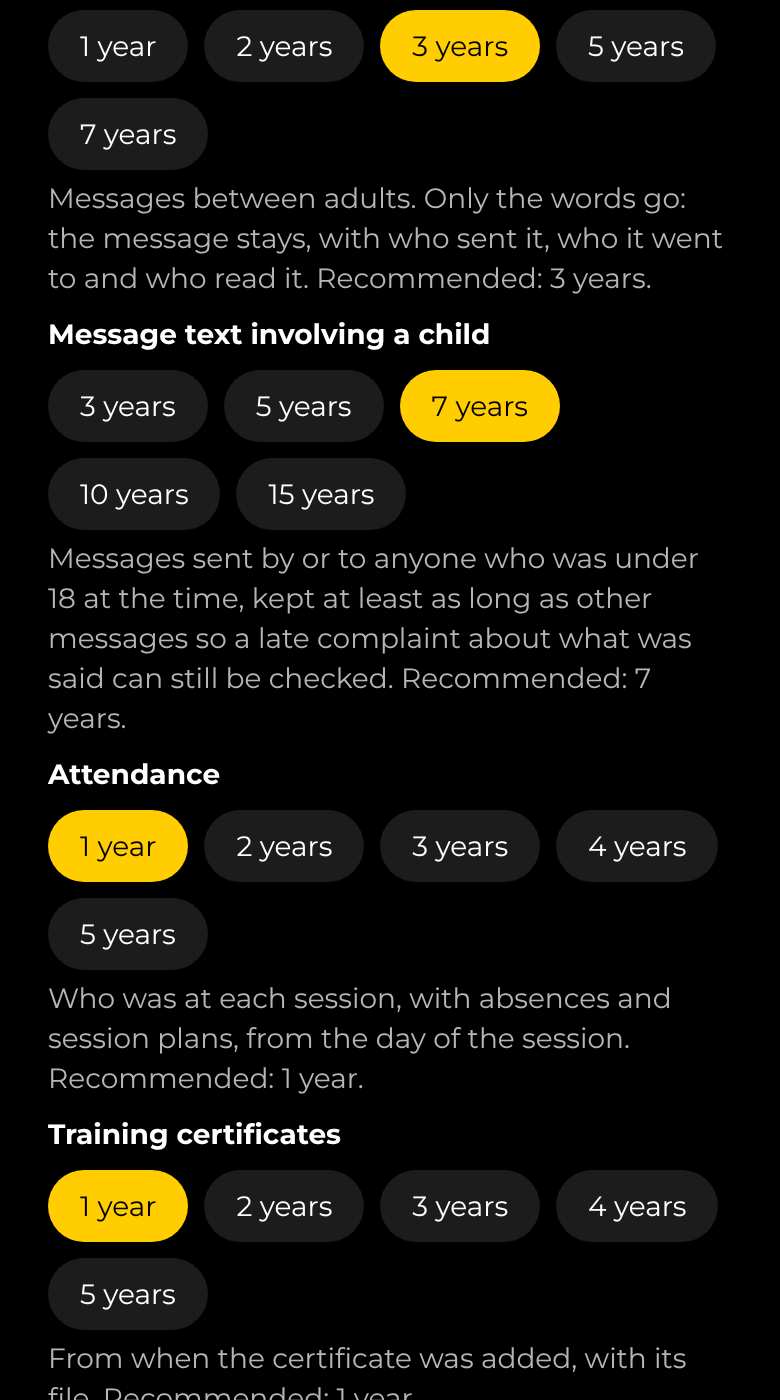
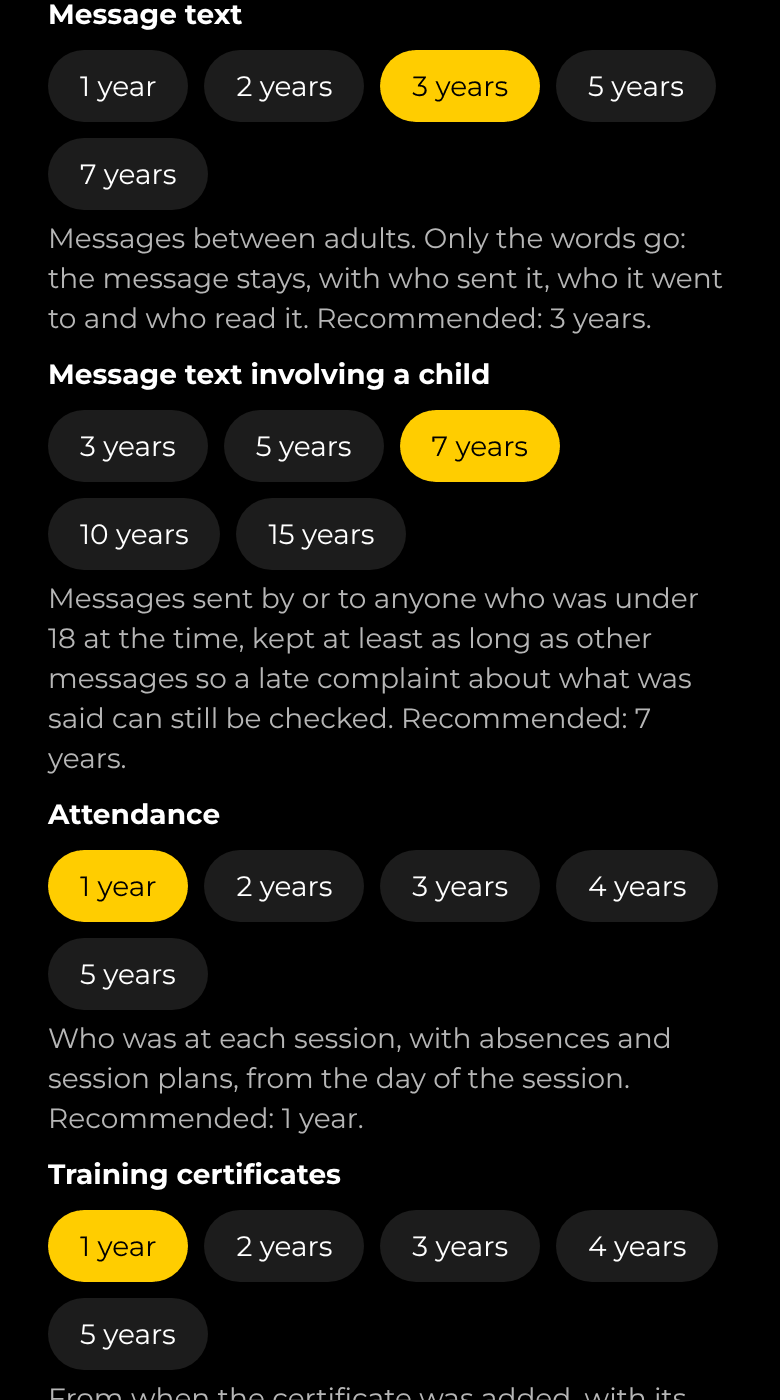
Add keep periods for surveys under Keeping records
Three periods, counted from when a survey closes: surveys from the
committee and admins (default 3 years), squad and team surveys shared
with admins or the committee (default 2 years), and polls kept in the
team (default 6 months). The nightly clean-up removes older surveys,
with their questions and answers, only once "Remove old records" is on.

Claude-Session: https://claude.ai/code/session_011mgcLG2v6Sjj6gzeqmDwPH

Changed region(s): [[0.0615, 0.0, 0.9231, 1.0], [0.5538, 0.9521, 0.7385, 1.0], [0.7692, 0.9521, 0.8615, 1.0]]

diff --git a/src/components/record-retention.tsx b/src/components/record-retention.tsx
@@ -22,7 +22,13 @@ type Retention = {
   child_messages_months: number;
   /** Days after clearance an injury's files are kept. */
   injury_documents_days: number;
+  /** Months after closing a survey is kept, by who it's from and who sees it. */
+  surveys_months: number;
+  shared_surveys_months: number;
+  team_polls_months: number;
 };
+
+type SurveyRetention = Pick<Retention, 'surveys_months' | 'shared_surveys_months' | 'team_polls_months'>;
 
 type PeriodKey = Exclude<
   keyof Retention,
@@ -30,16 +36,21 @@ type PeriodKey = Exclude<
 >;
 
 async function loadRetention() {
-  const [{ data }, { data: childMonths }, { data: days }] = await Promise.all([
+  const [{ data }, { data: childMonths }, { data: days }, { data: surveys }] = await Promise.all([
     supabase.rpc('record_retention').maybeSingle(),
     supabase.rpc('child_messages_keep_months'),
     supabase.rpc('injury_documents_keep_days'),
+    supabase.rpc('survey_retention').maybeSingle(),
   ]);
   if (!data) return null;
+  const survey = surveys as SurveyRetention | null;
   return {
-    ...(data as Omit<Retention, 'child_messages_months' | 'injury_documents_days'>),
+    ...(data as Omit<Retention, 'child_messages_months' | 'injury_documents_days' | keyof SurveyRetention>),
     child_messages_months: typeof childMonths === 'number' ? childMonths : 84,
     injury_documents_days: typeof days === 'number' ? days : 365,
+    surveys_months: survey?.surveys_months ?? 36,
+    shared_surveys_months: survey?.shared_surveys_months ?? 24,
+    team_polls_months: survey?.team_polls_months ?? 6,
   } as Retention;
 }
 
@@ -82,6 +93,24 @@ const periods: { key: PeriodKey; label: string; note: string; choices: number[] 
     label: 'Training certificates',
     note: 'From when the certificate was added, with its file. Recommended: 1 year.',
     choices: oneToFive,
+  },
+  {
+    key: 'surveys_months',
+    label: 'Surveys from the committee and admins',
+    note: 'From when the survey closes, with its questions, answers and who it went to. Recommended: 3 years.',
+    choices: [12, 24, 36, 60, 84],
+  },
+  {
+    key: 'shared_surveys_months',
+    label: 'Squad and team surveys shared with admins or the committee',
+    note: 'Coaches’ and managers’ surveys that admins see, from when they close. Recommended: 2 years.',
+    choices: [12, 24, 36, 60, 84],
+  },
+  {
+    key: 'team_polls_months',
+    label: 'Squad and team polls kept in the team',
+    note: 'Coaches’ quick polls nobody else sees, and captains’ polls, from when they close. Recommended: 6 months.',
+    choices: [3, 6, 12, 24],
   },
   {
     key: 'access_log_months',
@@ -154,9 +183,16 @@ export function RecordRetention() {
       p_access_log_months: draft.access_log_months,
       p_injury_documents_days: draft.injury_documents_days,
     });
+    const { error: surveyError } = rpcError
+      ? { error: null }
+      : await supabase.rpc('admin_set_survey_retention', {
+          p_surveys_months: draft.surveys_months,
+          p_shared_surveys_months: draft.shared_surveys_months,
+          p_team_polls_months: draft.team_polls_months,
+        });
     setBusy(false);
-    if (rpcError) {
-      setError(rpcError.message);
+    if (rpcError || surveyError) {
+      setError((rpcError ?? surveyError)?.message ?? 'That didn’t save. Try again.');
       return;
     }
     const row = (await loadRetention()) ?? draft;

diff --git a/supabase/functions/purge-expired-injuries/index.ts b/supabase/functions/purge-expired-injuries/index.ts
@@ -1,7 +1,8 @@
 // Removes injury records 12 months after the athlete left the club, the files
 // of cleared injuries once they are past the club's keep period, and,
 // once an admin has switched on "Remove old records" in Club settings, other
-// records past the club's keep periods (public.purge_expired_records()).
+// records past the club's keep periods (public.purge_expired_records() and
+// public.purge_expired_surveys()).
 //
 // Documents go first, through the storage API (deleting storage rows in SQL
 // would leave the files behind), then the records. A record is only removed
@@ -120,11 +121,14 @@ Deno.serve(async (request) => {
   const { data: records, error: recordsError } = await supabase.rpc('purge_expired_records');
   if (recordsError) return failed('removing old records', recordsError.message);
 
+  const { data: surveys, error: surveysError } = await supabase.rpc('purge_expired_surveys');
+  if (surveysError) return failed('removing old surveys', surveysError.message);
+
   // Counts go to the function's logs, not to whoever called it.
   console.log(`Purged ${names.length} document(s) and ${purged} injury record(s)`);
   console.log(`Removed ${cleared.length} cleared injury file(s); marked ${marked} document(s)`);
   console.log(
-    `Removed ${certificates.length} certificate file(s) and ${planFiles.length} session plan file(s); old records: ${JSON.stringify(records)}`,
+    `Removed ${certificates.length} certificate file(s) and ${planFiles.length} session plan file(s); old records: ${JSON.stringify(records)}; old surveys: ${JSON.stringify(surveys)}`,
   );
   return Response.json({ ok: true });
 });

diff --git a/docs/user-guide.md b/docs/user-guide.md
@@ -2393,6 +2393,16 @@ its periods starts on those.
 - **Attendance** (with absences and session plans and their files, counted from the day of the
   session) and **Training certificates** (with their files, counted from when they were added):
   1 year (recommended) to 5 years.
+- **Surveys**, counted from when each survey closes, with its questions, answers and who it went
+  to. There are three periods:
+  - **Surveys from the committee and admins**: 1, 2, 3 (recommended), 5 or 7 years.
+  - **Squad and team surveys shared with admins or the committee** (every coach or manager survey
+    longer than a quick poll or with a written answer, and any they chose to share): 1, 2
+    (recommended), 3, 5 or 7 years.
+  - **Squad and team polls kept in the team** (coaches' and managers' quick polls nobody else sees,
+    and captains' polls): 3 months, 6 months (recommended), 1 year or 2 years.
+
+  Who viewed a child's survey answers stays in their record views, under that setting's own period.
 - **Who viewed a child's records**: 3, 5, 7 (recommended), 10 or 15 years.
 - **Injury documents**: the letters, reports and photos of a cleared injury go 90 days, 1 year
   (recommended) or 3 years after it was cleared. The injury, its sign-offs, each document's name,
@@ -2408,6 +2418,7 @@ Tap **Save keep periods** to save.
 
 <img src="user-guide/club-settings-records.png" width="210" alt="Club settings: keeping records">
 <img src="user-guide/club-settings-records-safety.png" width="210" alt="Club settings: keep periods for message text, messages involving a child, attendance and certificates">
+<img src="user-guide/club-settings-records-surveys.png" width="210" alt="Club settings: keep periods for surveys and team polls">
 <img src="user-guide/club-settings-records-injury.png" width="210" alt="Club settings: keep periods for record views and injury documents">
 
 ### Safeguarding contacts
@@ -2782,10 +2793,10 @@ Working With Children Check, and another admin must do it.
   Parents and guardians get a copy of every survey sent to their child and read their child's named
   answers. Captains can send their own squad or team polls with choices only, no written answers,
   the group's coaches and managers see each poll and its results and can close it, and a captain
-  under 18's parents or guardians get a copy. Survey answers aren't removed under Keeping records
-  yet.
+  under 18's parents or guardians get a copy. Surveys and their answers are removed under
+  Keeping records, with their own periods.
 - **Records aren't kept forever.** Set how long the club keeps check-ins, game goals, message text,
-  attendance, training certificates, record views and injury documents under
+  surveys, attendance, training certificates, record views and injury documents under
   [Keeping records](#keeping-records), and switch on **Remove old records**. The text of messages
   sent by or to a child is kept at least 3 years (7 recommended) and never less than other
   messages, and who viewed a child's records at least 3 years (7 recommended); concerns are never
